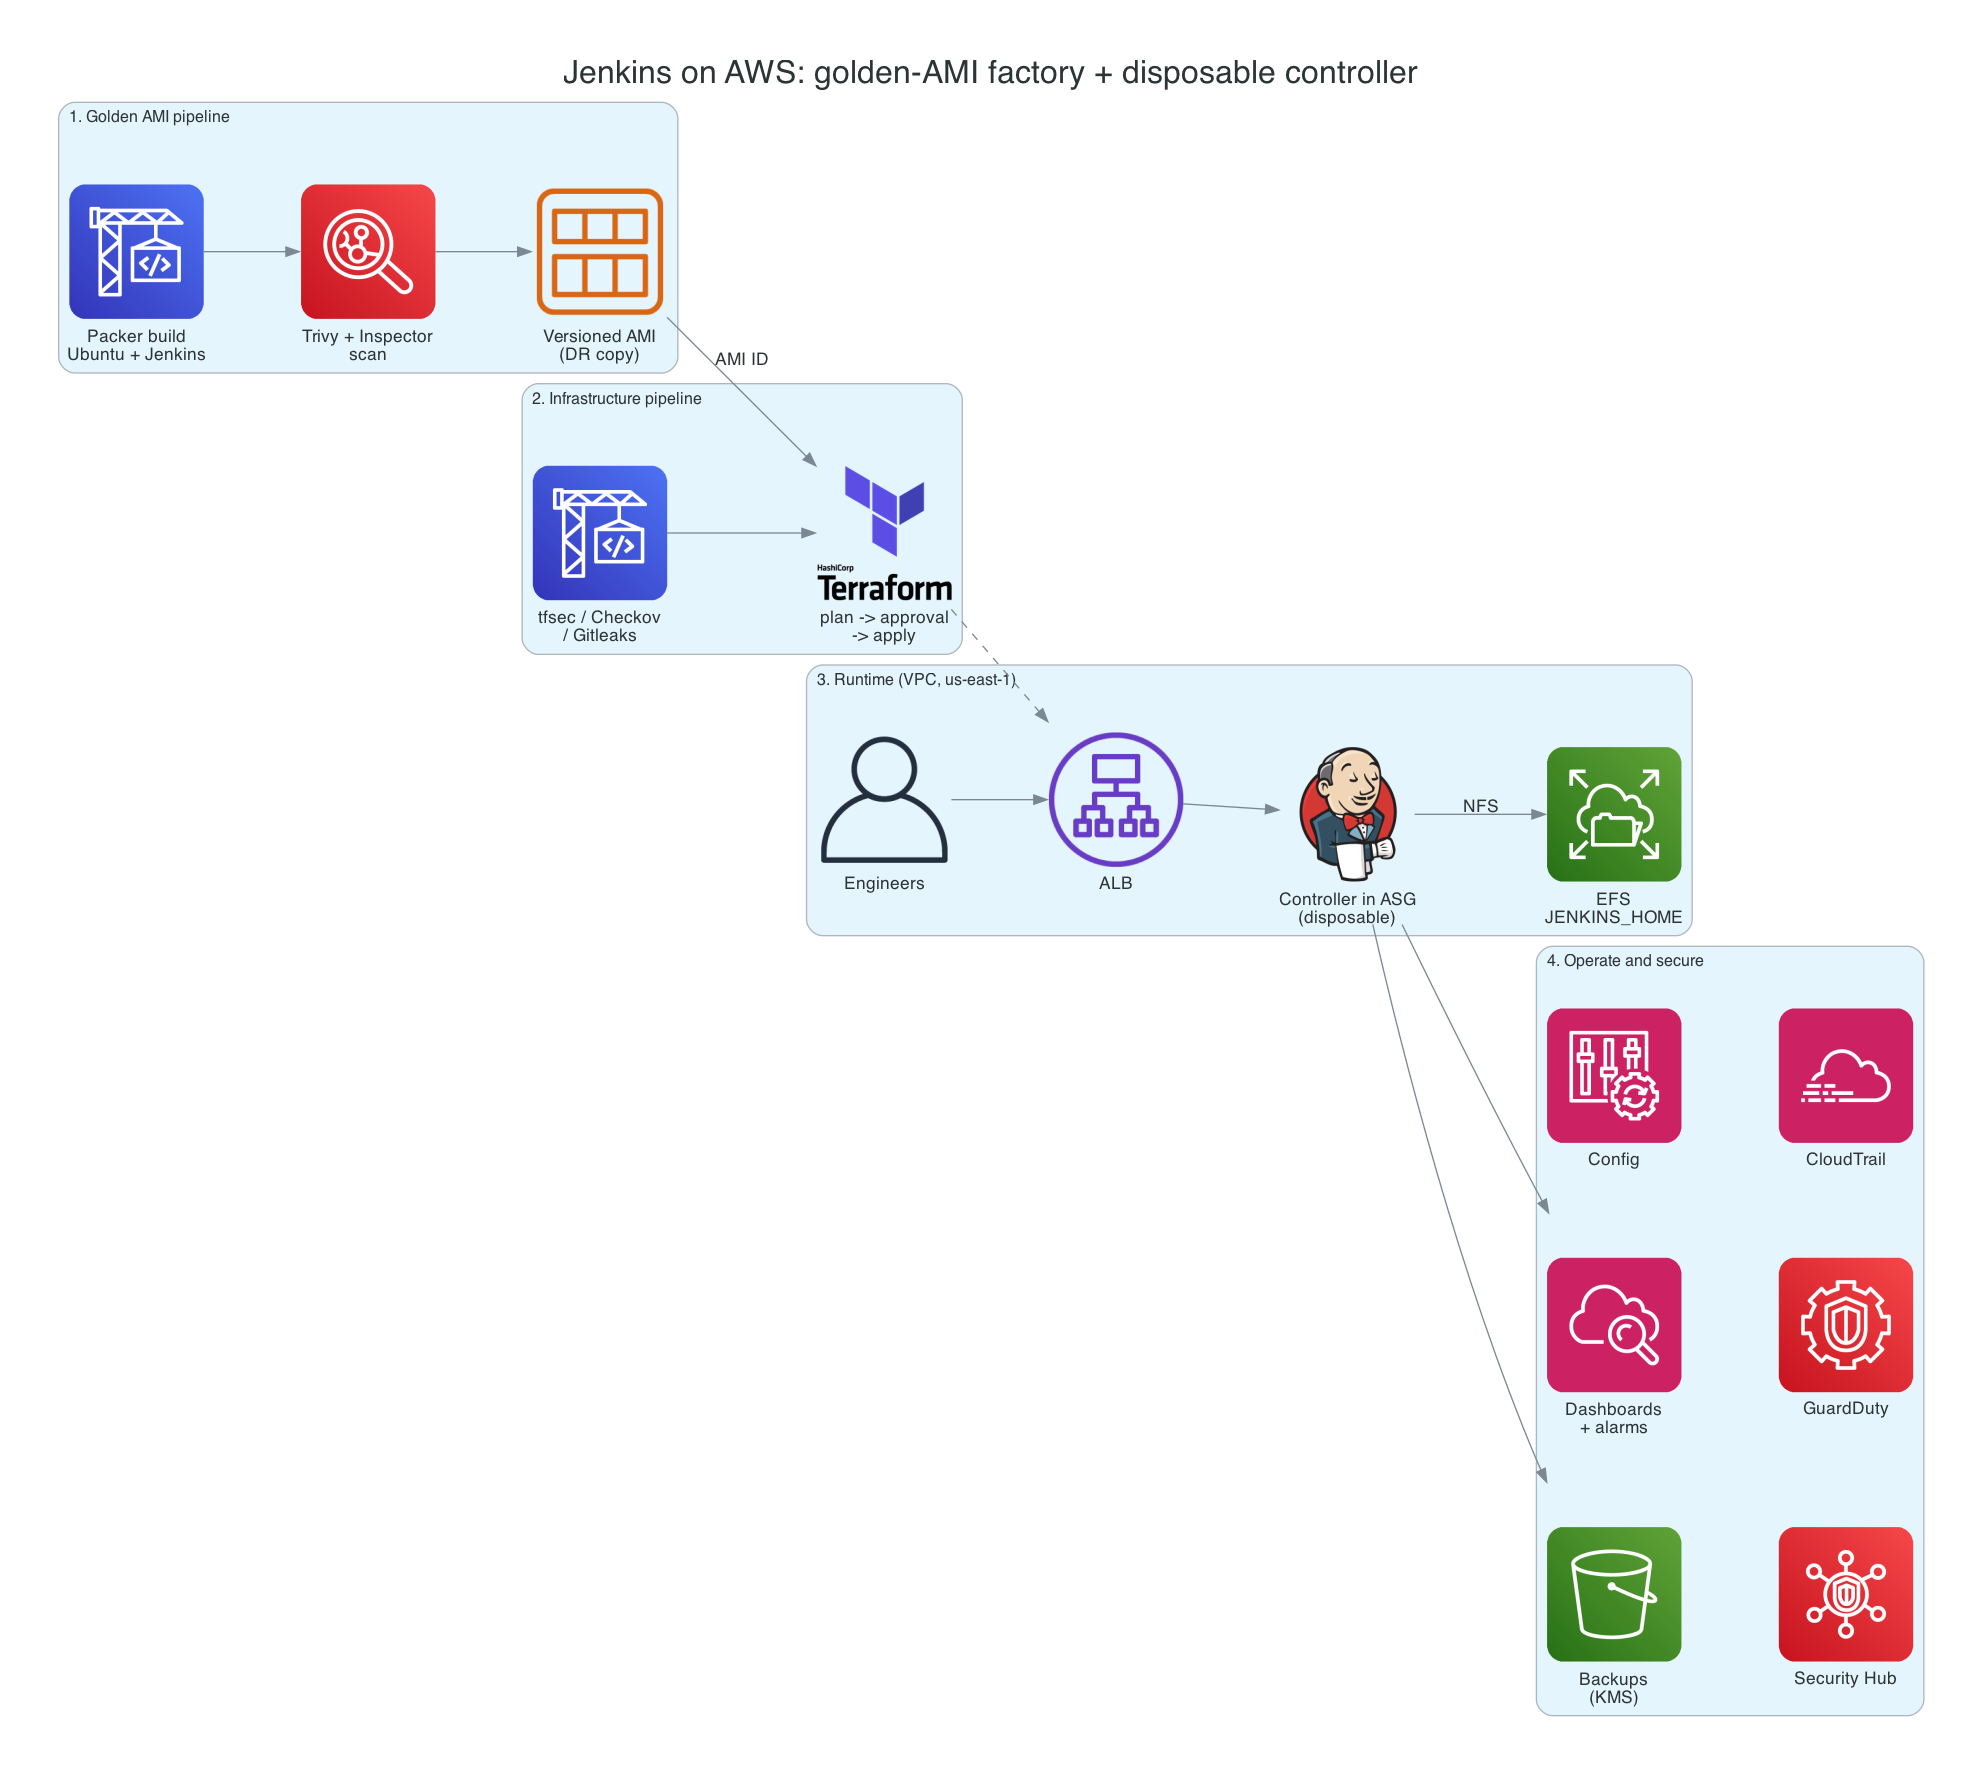
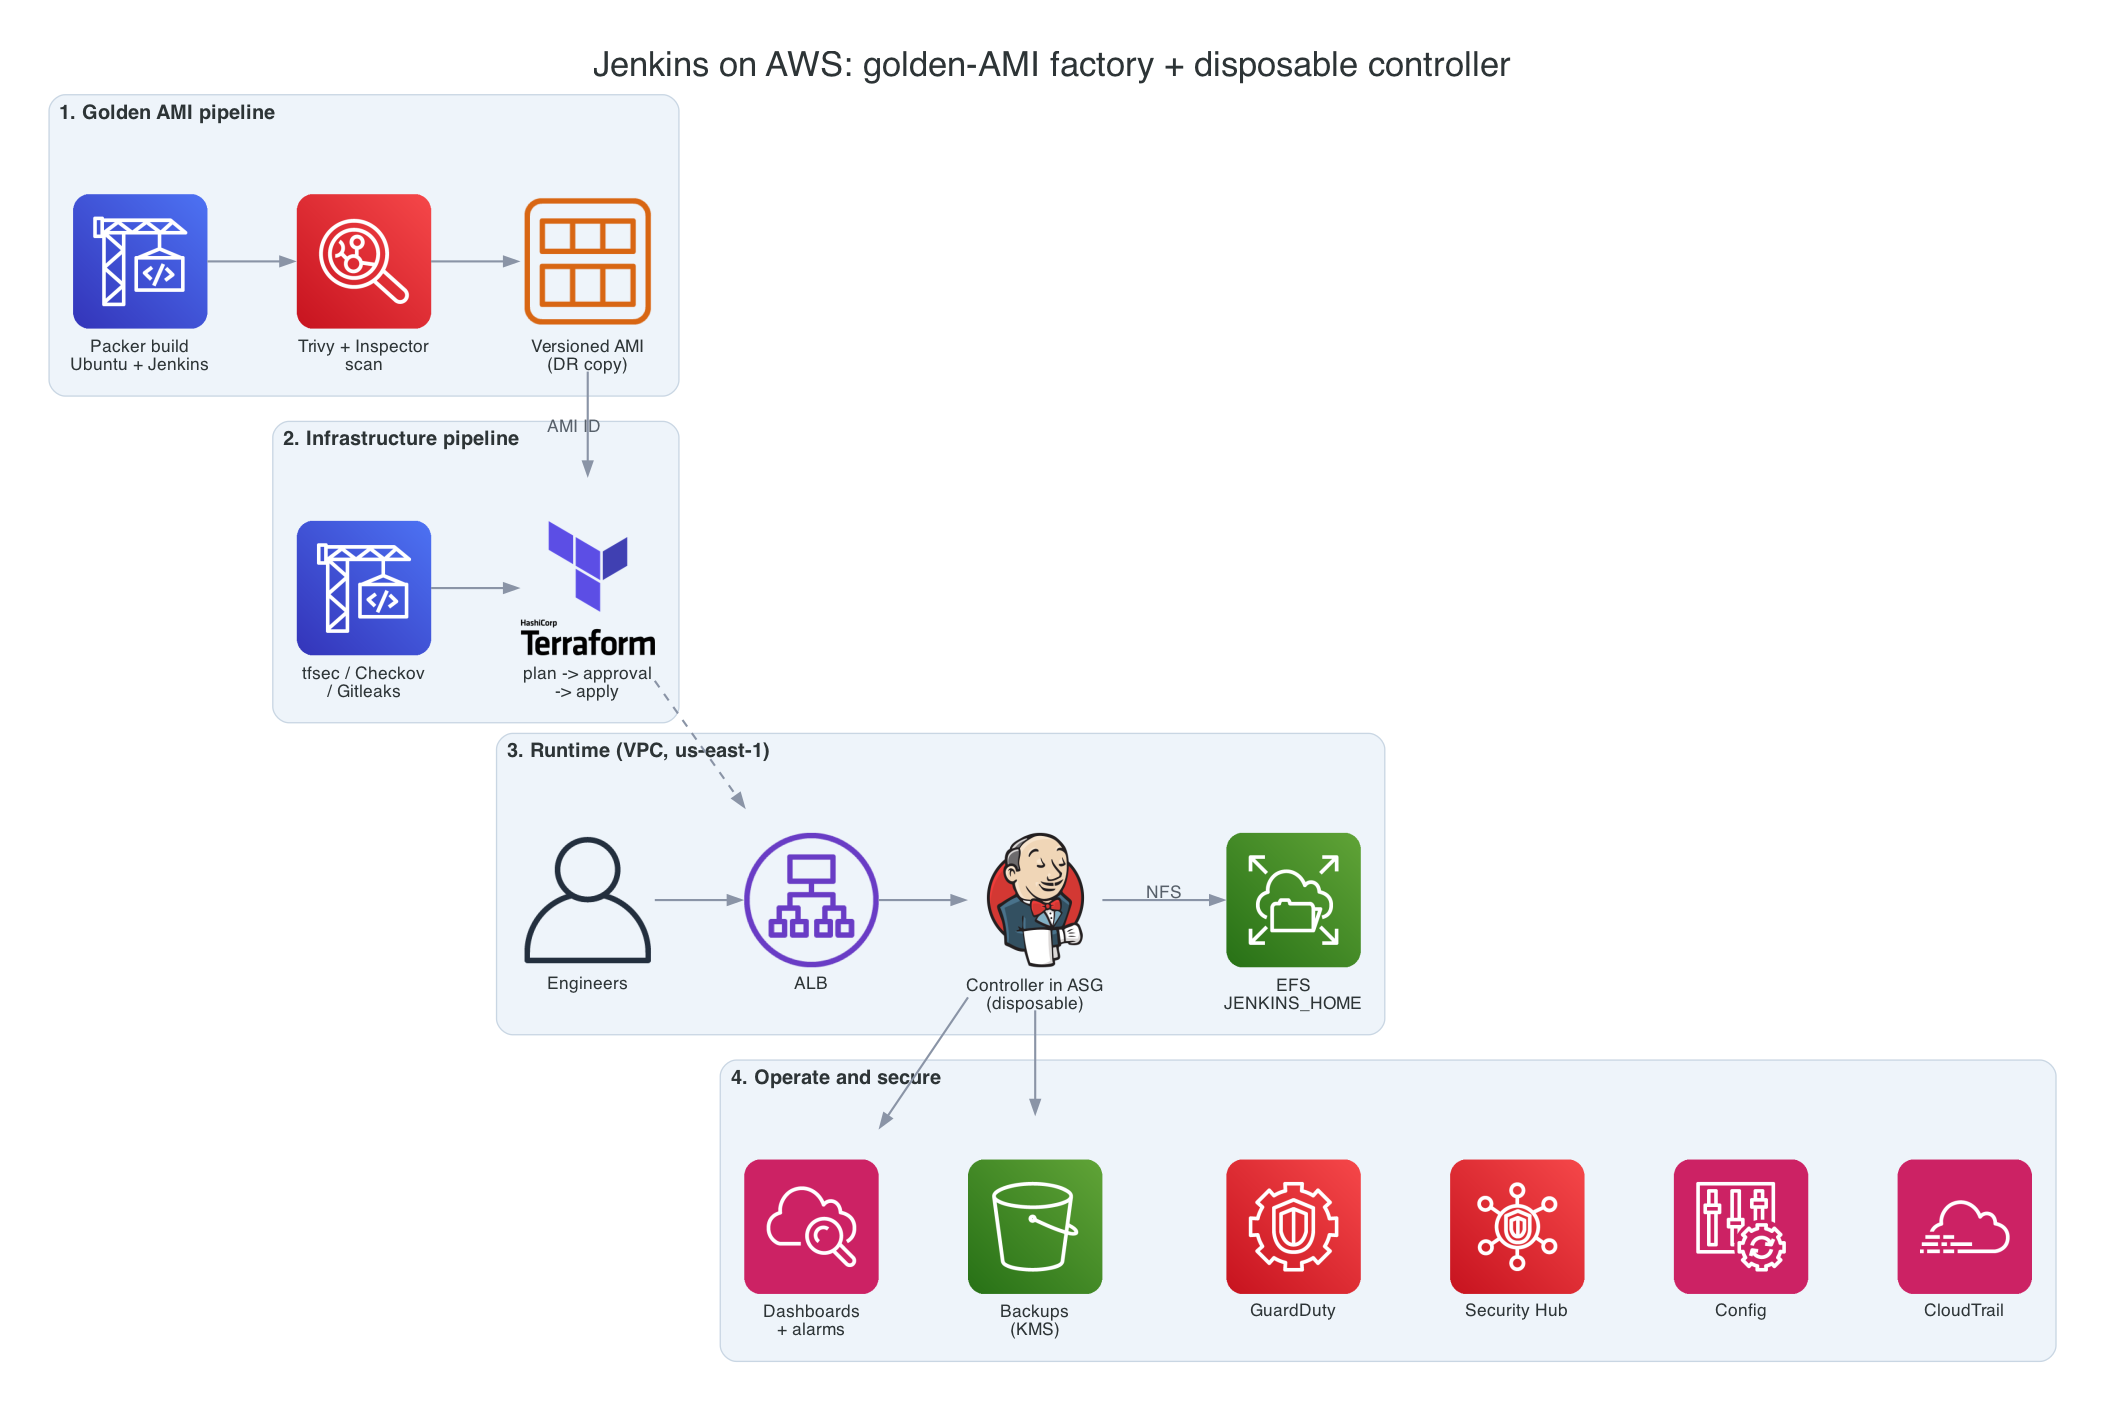
README: animated architecture walkthrough and diagram

diff --git a/README.md b/README.md
@@ -12,7 +12,9 @@ Teams running Jenkins on hand-built EC2 instances end up with snowflake servers:
 
 ## 2. Architecture
 
-![Architecture: golden-AMI pipeline, infrastructure pipeline, runtime, operations](docs/images/architecture.png)
+![Architecture walkthrough: golden-AMI pipeline, infrastructure pipeline, disposable runtime, operations](docs/images/architecture-flow.gif)
+
+<sub>Static diagram: [docs/images/architecture.png](docs/images/architecture.png)</sub>
 
 Pipeline detail:
 
